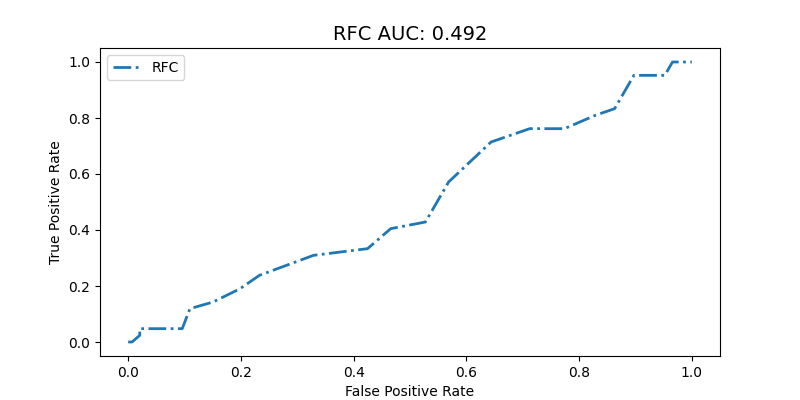
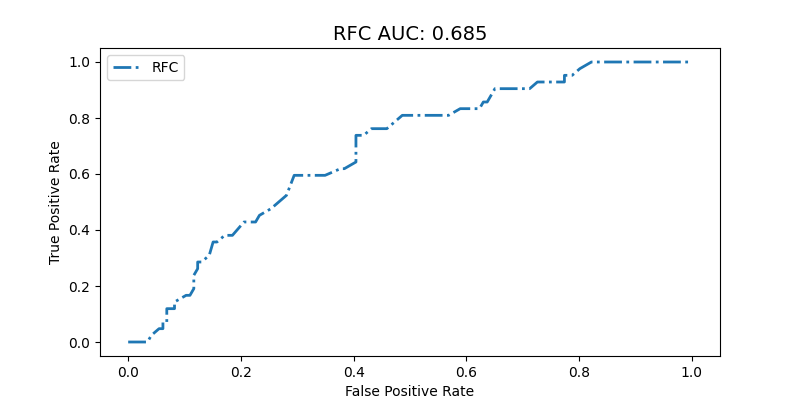
Hyperparam tuning with auc work for all clf

diff --git a/Miriam.py b/Miriam.py
@@ -73,9 +73,9 @@ AGE_GROUPS = {
 }
 
 CLASSIFIERS = {
-    "dummy": False,
-    "log_reg": False,
-    "svc": False,
+    "dummy": True,
+    "log_reg": True,
+    "svc": True,
     "ran_for": True
 }
 
@@ -89,18 +89,24 @@ RAN_FOR_HPARAMS = {
 }
 
 LOG_REG_HPARAMS = {
-    'log_reg__solver': ['newton-cg', 'lbfgs', 'liblinear', 'sag', 'saga'],
-    'log_reg__C': [100, 10, 1.0, 0.1, 0.01],
-    'log_reg__penalty': ['l2']
+    'log_reg__solver': ['lbfgs'],
+    'log_reg__C': [100, 10],
+    'log_reg__penalty': ['l2'],
+    'log_reg__max_iter' : [1000]
 }
 
 SVC_HPARAMS = {
-    'svc__kernels': ['linear', 'poly', 'rbf', 'sigmoid'],
-    'svc__C': [100, 10, 1.0, 0.1, 0.01]
+    'svc__kernel': ['linear'],
+    'svc__C': [100, 10],
+    'svc__probability' : [True]
+}
+
+DUMMY_HPARAMS ={
+    'dummy__strategy' : ["most_frequent"]
 }
 
 CLF_HPARAMS = {
-    "dummy": None,
+    "dummy": DUMMY_HPARAMS,
     "log_reg": LOG_REG_HPARAMS,
     "svc": SVC_HPARAMS,
     "ran_for": RAN_FOR_HPARAMS}
@@ -513,11 +519,11 @@ def recs_to_matrix(recs):
 def get_classifier(clf_str):
     classifier = None
     if clf_str == "dummy":
-        classifier = DummyClassifier(strategy="most_frequent")
+        classifier = DummyClassifier()
     elif clf_str == "log_reg":
-        classifier = LogisticRegression(max_iter=10000)
+        classifier = LogisticRegression()
     elif clf_str == "svc":
-        classifier = svm.SVC(probability=True)
+        classifier = svm.SVC()
     elif clf_str == "ran_for":
         classifier = RandomForestClassifier()
     return classifier
@@ -752,7 +758,7 @@ def main():
 
             for clf in CLASSIFIERS.keys():
                 if CLASSIFIERS[clf] == True:
-                    print("CV for ", attr)
+                    print("CV with ", clf, " for ", attr)
                     result = {}
                     result['clf'] = clf
                     result['attr'] = attr
